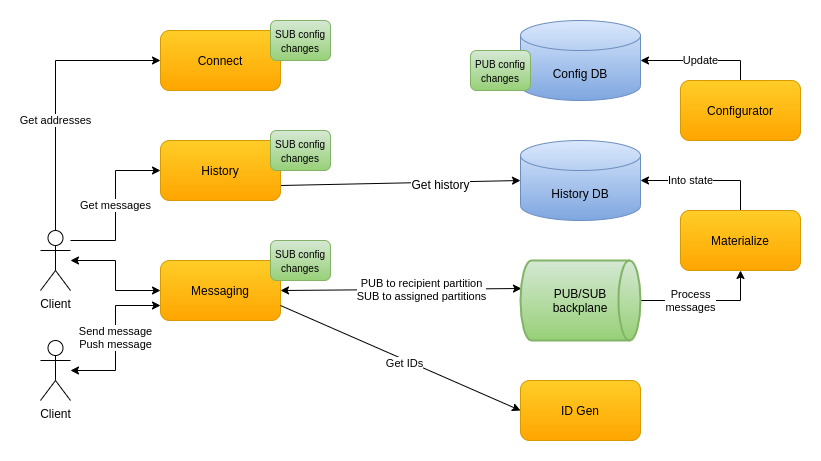
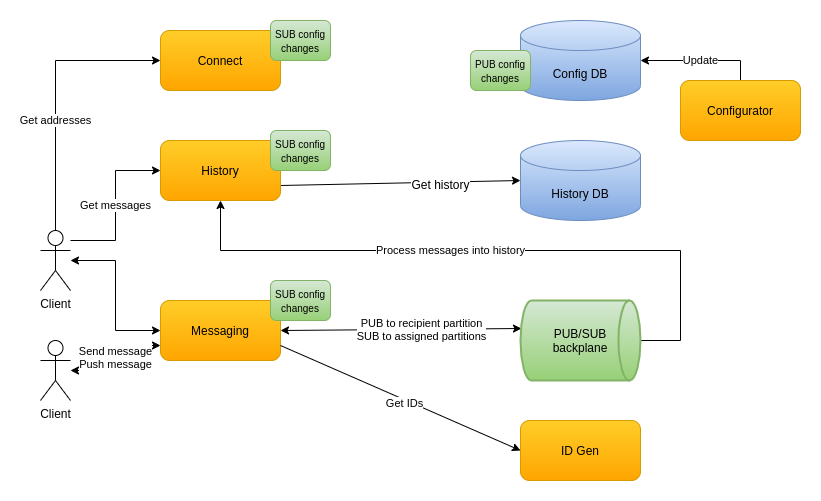
Replace/remove references to materialize servers in the docs and diagrams

diff --git a/docs/01-intro-03-overall-design-technologies.md b/docs/01-intro-03-overall-design-technologies.md
@@ -2,7 +2,7 @@
 
 ![Overall design](images/cecochat-01-overall.png)
 
-Clients connect to messaging servers in order to chat. Messaging servers communicate with each other indirectly using a PUB/SUB backplane. The PUB/SUB backplane also acts like an event log. Materialize servers transform messages from the event log into a history database which is the source of truth. The history is available for querying by the clients via history servers. Clients obtain the addresses for the messaging and history servers from a connect server. ID Gen servers are used to generate message IDs in a distributed and scalable way. The messaging, history, connect servers use dynamic configuration which is updated centrally. Splitting the different responsibilities between separate servers allows for independent scaling. A deployment infrastructure takes care of failover, growth/shrinkage of the different server sets based on load and predictive analytics.
+Clients connect to messaging servers in order to chat. Messaging servers communicate with each other indirectly using a PUB/SUB backplane. The PUB/SUB backplane also acts like an event log. The history servers transform messages from the event log into a history database which is the source of truth. The history is available for querying by the clients via history servers. Clients obtain the addresses for the messaging and history servers from a connect server. ID Gen servers are used to generate message IDs in a distributed and scalable way. The messaging, history, connect servers use dynamic configuration which is updated centrally. Splitting the different responsibilities between separate servers allows for independent scaling. A deployment infrastructure takes care of failover, growth/shrinkage of the different server sets based on load and predictive analytics.
 
 All the diagrams are in the [diagrams](diagrams/) folder and [draw.io](https://app.diagrams.net/) is needed in order to view them. From the `Help` item in the menu a desktop tool could be downloaded, if preferred. Currently this is the [link with the releases](https://github.com/jgraph/drawio-desktop/releases).
 

diff --git a/docs/02-design-03-history-clients.md b/docs/02-design-03-history-clients.md
@@ -1,6 +1,6 @@
 # History
 
-Materialize servers use a standard Kafka consumer group with automatic partition assignment and balancing. Their role is to create the history data in the Cassandra database. Currently 2 types of queries are supported which reflects the Cassandra tables that is used.
+History servers use a standard Kafka consumer group with automatic partition assignment and balancing. Their role is to create the history data in the Cassandra database. Currently 2 types of queries are supported which reflects the Cassandra tables that is used.
 
 * `Get user history` - returns a predefined max number of messages sent to the user with the specified user ID which are older than a specified date. In order to support this query for both sender and receiver the message is entered in the database twice. The table has a `user ID` column which is the partitioning key. It is separate from the `sender ID` and `receiver ID`. The `message ID` which is a snowflake is used as a clustering key. The timestamp from the request is converted to a snowflake in order to satisfy the query.
 * `Get dialog history` - returns a predefined max number of messages between 2 users with the specified user IDs which are older than a specified date. The partition key here is a string of `userID1-userID2`. To avoid ambiguity `userID1` is always the smaller. The rest of the details are the same as the previous query.

diff --git a/docs/03-infrastructure-01-main.md b/docs/03-infrastructure-01-main.md
@@ -11,7 +11,6 @@ A Github Actions workflow is set up to:
   - [Connect](https://hub.docker.com/repository/docker/cvetomirtodorov/cecochat-connect)
   - [History](https://hub.docker.com/repository/docker/cvetomirtodorov/cecochat-history)
   - [ID Gen](https://hub.docker.com/repository/docker/cvetomirtodorov/cecochat-idgen)
-  - [Materialize](https://hub.docker.com/repository/docker/cvetomirtodorov/cecochat-materialize)
   - [Messaging](https://hub.docker.com/repository/docker/cvetomirtodorov/cecochat-messaging)
 
 # Run locally
@@ -61,7 +60,6 @@ In order to containerize CecoChat you can use the folder which contains the [Doc
 
 * 1 Connect server
 * 2 Messaging servers
-* 1 Materialize server
 * 1 History server
 * 1 ID Gen server
 

diff --git a/docs/01-intro-01-main.md b/docs/01-intro-01-main.md
@@ -3,10 +3,11 @@
 ## Functional
 
 * User can send messages to and receive messages from other users
+* User can react to messages
 * User can connect with multiple clients
 * User is shown at connect the missed messages while being offline
 * User can review chat history at a random point in time between him and another user 
-* User receives an ACK when the message has been delivered to the chat
+* User receives an ACK when the message has been processed by the system
 
 Currently no user profile and friendship are implemented so clients rely on user IDs.
 

diff --git a/docs/02-design-01-approach.md b/docs/02-design-01-approach.md
@@ -65,7 +65,7 @@ Chat history has the following needs:
   - When a user logs-in and needs all new messages
   - When a user reviews a dialog back in time
 
-Cassandra as a history database answers those needs very well. And this time the Kafka consumer group for materialize servers can safely use the built-in partition auto-balancing.
+Cassandra as a history database answers those needs very well. And this time the Kafka consumer group for materialization can safely use the built-in partition auto-balancing.
 
 # Reliable messaging and consistency
 
